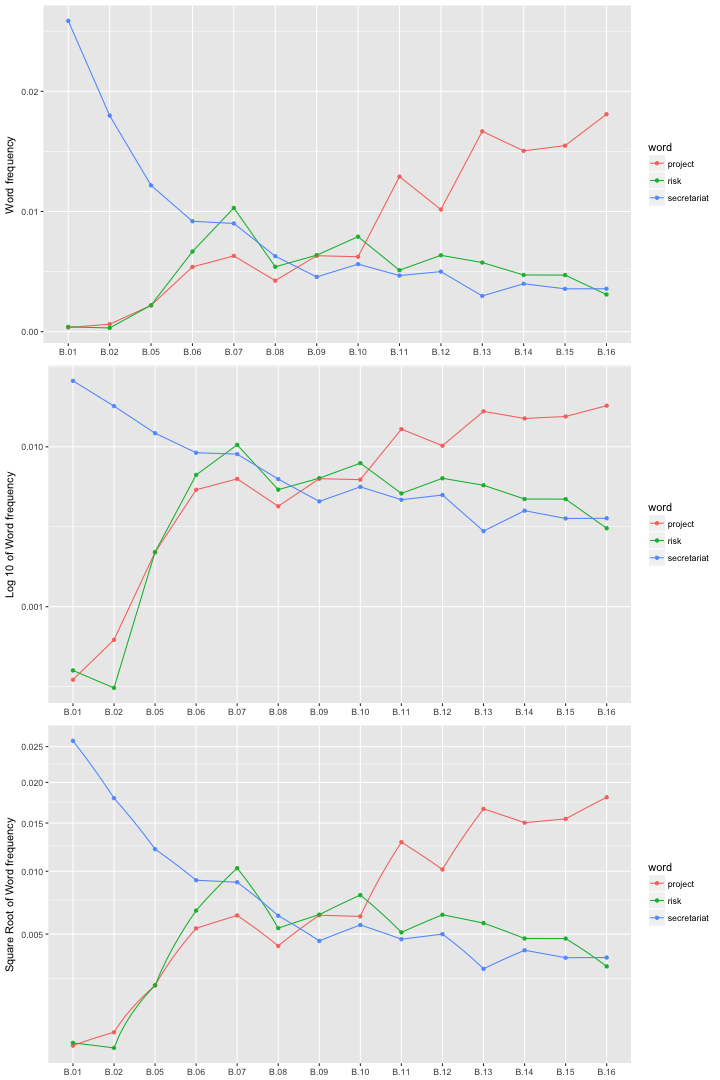
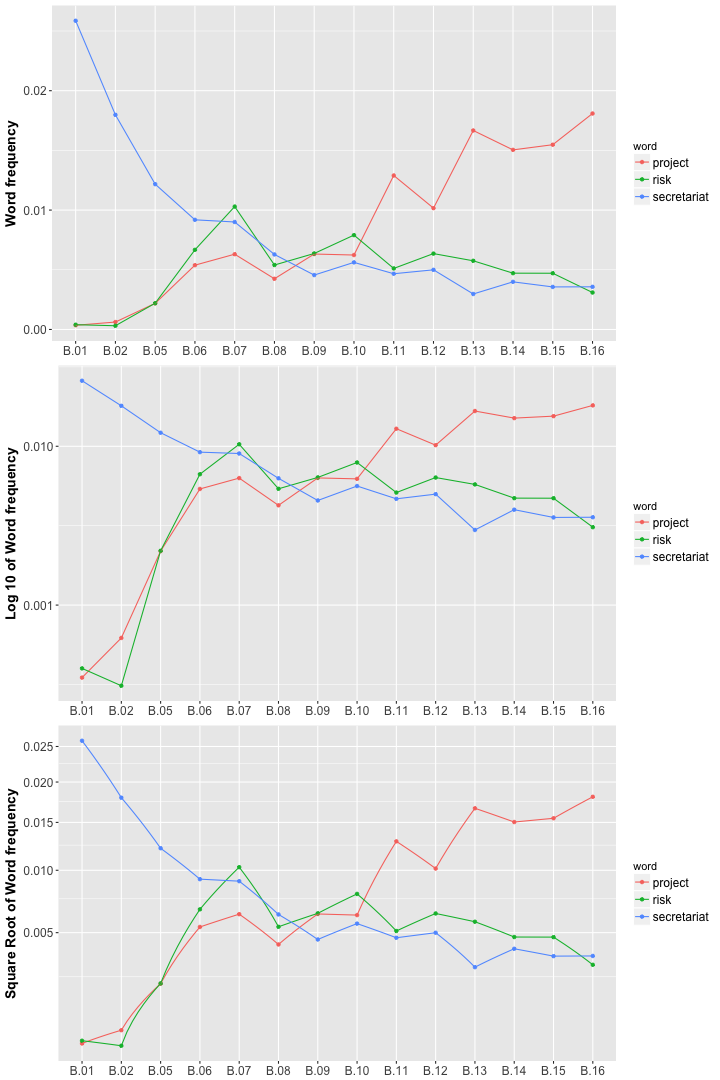
changed image text sizes and edited both posts

diff --git a/_posts/2017-4-26-exploratory_data_analysis_of_board_documents_at_the_green_climate_fund.md b/_posts/2017-4-26-exploratory_data_analysis_of_board_documents_at_the_green_climate_fund.md
@@ -1,6 +1,6 @@
 ---
 layout: post
-title:  "Exploratory Data Analysis of Board Documents at The Green Climate Fund"
+title:  "Exploratory Data Analysis: The Green Climate Fund"
 date:   2017-4-26 17:55:01 +0900
 category: r
 tags: [r]
@@ -11,15 +11,15 @@ comments: true
 
 
 
-# Introducing gcfboardr 
+Recently, I harvested over 500,000 lines of text from 500+ Green Climate Fund board documents. Because of this, I've  built a data-only R package called `gcfboardr`, so that anyone can make use of the corpus I've created without going through the harvesting process.
 
-In a previous post, I introduced `gcfboardr` a package I'd written which holds Green Climate Fund (GCF) board documents, ready for for text analysis.
+To build the data, I used documents produced for board meetings, available [here on the GCF website](http://http://www.greenclimate.fund/boardroom/board-meetings/documents). I've read some of these documents before, and it occured me that the Fund will produce more text than anyone can read in a lifetime. So I've used my natural curiosity about the Fund as a motivating project with which to practice the tidytext approach to text mining and gain deeper insight into the Fund.
 
-By looking at the most important GCF documents we might be able to get a sense of priorities at the Fund, including changes over time.
+In this post, I'm going to show what can be done with gcfboardr.
 
-I recommend using this data with the `tidytext` R package. Combining several smaller functions from `tidytext` and `dplyr` allows you to produce powerful transformations of text data. This is exactly what I'm going to do below.
+***
 
-### How to install
+### Installation
 
 To install the gcfboardr package you'll need to have the devtools package installed, and then install gcfboardr from github using the following code:
 
@@ -34,7 +34,9 @@ library(gcfboardr)
 data("gcfboard_docs")
 {% endhighlight %}
 
-## What's in the gcfboardr data set?
+***
+
+### Preview
 
 Let's load up a few libraries and take a glimpse at the data:
 
@@ -50,45 +52,32 @@ glimpse(gcfboard_docs)
 
 
 {% highlight text %}
-## Observations: 493,262
+## Observations: 490,537
 ## Variables: 3
-## $ text    <chr> "Date: 1 March 2017", "Reference: ", "Sixteenth Meeting of the Board", "4 – 6 A...
-## $ meeting <fctr> B.16, B.16, B.16, B.16, B.16, B.16, B.16, B.16, B.16, B.16, B.16, B.16, B.16, ...
 ## $ title   <fctr> Sixteenth Meeting of the Board, Sixteenth Meeting of the Board, Sixteenth Meet...
+## $ meeting <fctr> B.16, B.16, B.16, B.16, B.16, B.16, B.16, B.16, B.16, B.16, B.16, B.16, B.16, ...
+## $ text    <chr> "Date:  March ", "Reference: ", "Sixteenth Meeting of the Board", " –  April ",...
 {% endhighlight %}
 
 We have almost 500,000 observations of three variables, in which every observation is a line from an original document. How many documents are there per meeting?
 
 ![center](/figs/2017-4-26-exploratory_data_analysis_of_board_documents_at_the_green_climate_fund/docspm-1.png)
 
-We can see that B.08 and B.11 were particularly prolific, and the early meetings produced far less text than the later ones. 
-B.08 was the first board meeting of 2014, the year the Fund started operations, and it produce more than double the documents from the previous meeting! 
+We can see that B.08 and B.11 were particularly prolific, and the early meetings produced fewer docs than the later ones. B.08 was the third board meeting of 2014, the year the Fund started operations, and it produced more than double the documents from the previous meeting!
 
-### Are board meetings reasonable groupings of text suitable for analysis?
+***
 
-When we're first looking at this data set, we might want to know whether our data is normal for a large corpus, and Zipf's Law is one yardstick we might use. Zipf's Law states that given a corpus of natural language text, the frequency of any word is inversely proportional to its rank in the frequency table. This is a power law, and it implies that the most common word appears roughly twice as often in a corpus than the 2nd most common word, and three times as often as the 3rd most common word, and so on. 
+## EDA of One Variable: Single Words
 
-If this relationship holds for our data, we can proceed. If it doesn't we might have some problematic documents (this was the case for B.03, which has some badly formatted text). Let's check the data, grouping by board meeting. 
-
-
-![center](/figs/2017-4-26-exploratory_data_analysis_of_board_documents_at_the_green_climate_fund/zipf-1.png)
-
-It looks like each group of board meeting documents in our data set obeys Zipf's law! This means that, without reading any documents, groups of documents belonging to each board meeting conform to out expectations about what a corpus should look like. There are no significant distortions in the text and we can move on to more interesting analysis.
-
-
-## Single Word Analysis
-
-So far we've been looking at lines, documents and meetings, but what we'd really like to look at is the words themselves. So let's unnest the words from their lines and remove some "stop words" -- words such as "and" "the" or "a" using an `anti_join` from the dplyr package.
+So far we've been looking at lines, documents and meetings, but what we'd really like to look at is the words themselves. So let's unnest the words from their lines and remove some "stop words" -- words such as "and" "the" or "a" -- using an `anti_join` from the dplyr package.
 
 
 {% highlight r %}
 # Load a table of 1,149 common stop words
 data(stop_words)
 
-# Filter out numbers and empty lines, then unnest tokens and anti_join a table of stop words
+# Unnest word tokens and anti_join a table of stop words
 gcf_tidy <- gcfboard_docs %>%
-  mutate(text = str_replace_all(text, "[[:digit:]]", "")) %>% 
-  filter(text != "") %>% 
   unnest_tokens(word, text) %>% 
   anti_join(stop_words)
 glimpse(gcf_tidy)
@@ -99,22 +88,34 @@ glimpse(gcf_tidy)
 {% highlight text %}
 ## Observations: 2,661,944
 ## Variables: 3
-## $ meeting <fctr> B.01, B.01, B.01, B.01, B.01, B.01, B.01, B.01, B.01, B.01, B.01, B.01, B.01, ...
 ## $ title   <fctr> Roles and Responsibilities of the Board, Annotations to the Provisional Agenda...
+## $ meeting <fctr> B.01, B.01, B.01, B.01, B.01, B.01, B.01, B.01, B.01, B.01, B.01, B.01, B.01, ...
 ## $ word    <chr> "meritbased", "contd", "realestate", "worldclass", "spacious", "itower", "itowe...
 {% endhighlight %}
 
-Even after we removed a list of 1,149 common stop words, the new tidy dataframe contains over 2.6 million words! Now let's look at the counts of remaining words, sorted by the number of times they appear in the text. 
+Even after we removed every instance of common stop words, the new tidy dataframe contains over 2.6 million words! Now let's look at the counts of remaining words, sorted by the number of times they appear in the text. 
 
 ![center](/figs/2017-4-26-exploratory_data_analysis_of_board_documents_at_the_green_climate_fund/common words-1.png)
 
 It looks like some words appear very often, in particular words associated with the name of the fund, although the word "green" is relatively less used than are the words "climate" and "fund".
 
-### How many times does the phrase "Green Climate Fund" appear?
-
 We might want to disambiguate uses of the word "climate" between uses which add important context to our analysis, and uses which just repeat the name of the fund.
 
 To solve this problem, we're going to to see how many times the words "Green Climate Fund" appear in sequence:
+
+
+{% highlight r %}
+# How many times does the trigram "Green Climate Fund" appear?
+gcf_name_trigram <- gcfboard_docs %>%
+  unnest_tokens(trigram, text, token = "ngrams", n = 3) %>%
+  separate(trigram, c("word1", "word2", "word3"), sep = " ") %>%
+  filter(word1 == "green",
+         word2 == "climate",
+         word3 == "fund") %>%
+  count(word1, word2, word3, sort = TRUE)
+gcf_name_trigram
+{% endhighlight %}
+
 
 
 {% highlight text %}
@@ -127,6 +128,19 @@ To solve this problem, we're going to to see how many times the words "Green Cli
 {% endhighlight %}
 
 Now we can see that 6,310 uses of each word "green", "climate" and "fund" are repetitions of the fund name. So how many uses are there in other contexts?
+
+
+{% highlight r %}
+gcf_name_disambiguation <- gcf_tidy %>%
+  count(word, sort = TRUE) %>%
+  filter(word == "green" | word == "climate" | word == "fund") %>%
+  transmute(word,
+         `basic count` = n,
+         `name context` = 6310,
+         `other contexts` = `basic count` - `name context`)
+gcf_name_disambiguation
+{% endhighlight %}
+
 
 
 {% highlight text %}
@@ -142,19 +156,20 @@ We can see that "green" occurs rarely in contexts other than the name context. T
 
 Now we can find out the relative importance of the word "climate", disambiguated from usage which is just a repetition of the fund's name. 
 
-
 ![center](/figs/2017-4-26-exploratory_data_analysis_of_board_documents_at_the_green_climate_fund/tidycount2-1.png)
 
-Wow! It turns out that the word "climate", independent of usage as part of the name of the Fund, is the third most common word. It's a good job we didn't remove it out of hand. 
+Wow! It turns out that the word "climate", independent of usage as part of the name of the Fund, is the third most common word. 
 
 You might wonder why we didn't remove the word "project" since it is so common. This is because frequency of usage has changed a lot over time, unlike the other words we removed.
+
+***
 
 ### How has word usage changed over time?
 
 
 
 
-Let's look at changes in usage for a few words which might be interesting to us: "secretariat", "project" and "risk".   
+Let's look at changes in usage for a few words which might be interesting to us: "secretariat", "project" and "risk".
 
 Plotting statistical transformations of word frequency can help us see these changes over time. Below you can see the bare frequenciess on top, followed by a log10 scale in the middle, and finally a squre root coordinate transform beneath.
 
@@ -163,15 +178,17 @@ Plotting statistical transformations of word frequency can help us see these cha
 
 All plots show that since the Fund became operational in 2014, use of the word "project" has surged. 
 
-At earlier meetings, establishing a secretariat was priority number one, and we can see usage declining over time. "Risk" begins to become much more important at B.07, which is when the Fund adopted a risk management framework.    
+At earlier meetings, establishing a secretariat was priority number one, and we can see usage declining over time. "Risk" begins to become much more important at B.07, which is when the Fund adopted an investment framework, a financial risk management framework, and a results management framework.
 
 You'll notice that the bare frequency plot emphasises the high-frequency changes to the words "secretariat" and "project", whereas the log10 plot of word frequency really helps us see what's happening at the low-end of the frequency range. The square-root coordinate transform preserves some of the perspective of both the other plots, and might be the most useful plot of the three.
 
-### What does single word analysis say about different board meetings?
+***
+
+### Word Frequency
 
 We might want to look at board meetings as a facet of our single word analysis. Which words are particularly associated with specific meeetings? To find this out we can use common rules-of-thumb: term frequency and it's cousin, inverse-document frequency.
 
-Computing this with the `bind_tf_idf` function from the tidytext package, we get a data table which shows the words which are associatd in particular with one meeting. 
+Computing these with the `bind_tf_idf` function from the tidytext package, we get a data table which shows the words which are associatd in particular with one meeting. 
 
 
 {% highlight text %}
@@ -197,25 +214,27 @@ We can then plot this data, faceting by meeting and picking the top 5 terms asso
 
 That's a lot of acronyms! If we look into the board documents themselves, we can see that these acronyms tend to denote real organizations or operational units at the fund. For example:
 
-* at B.16, the top term is "geeref", which stands for "Global Energy Efficiency and Renewable Energy Fund"
-* and at B.06, where the top term is "iiu", this refers to the "Independent Integrity Unit" (IIU), which is one of three accountability units at the fund. 
+* At B.16, the top term is "geeref", which is the ["Global Energy Efficiency and Renewable Energy Fund"](http://geeref.com/), a Public-Private Partnership which makes equity investments in clean energy in developing countries.
+* At B.06, where the top term is "iiu", this refers to the ["Independent Integrity Unit" (IIU)](http://www.greenclimate.fund/independent-integrity-unit), which is one of three accountability units at the fund. 
 
 This means that relative to other board meetings, the IIU and GEEREF were a particularly important topics at the sixth and sixteenth meetings of the board respectively.
 
-### How similar are individual board meetings?
+***
 
-We can also look at frequencies of words between meeting pairs. Words that are common to one meeting are common to another, and cancel each other out, leaving interesting words at the margins.
+### Word Correlation
+
+We can also look at correlation in word frequency between pairs of meetings. Words that are common to one meeting are common to another, and cancel each other out, leaving interesting words at the margins.
 
 Let's use a 45 degree dashed line to denote equal frequency in word usage. This means that:
 
 * words above the line appear more commonly in B.16 board documents than in the comparison group, while 
 * words below the line appear more frequently in the comparison group than at B.16 (check the label above the plot to find which board meeting is used as the comparison). 
 
-For example, in the first plot below we see that "co-chairs" was a big issue at B.01 (below the line), while it wasn't at B.16. In contrast, B.16 (above the line) had a greater focus on "women", "water" and "projects" than did B.01.
+For example, in the first plot below we see (below the line) that "co-chairs" was a big issue at B.01, while it wasn't at B.16. In contrast, B.16 (above the line) had a greater focus on "women", "water" and "projects" than did B.01.
 
 ![center](/figs/2017-4-26-exploratory_data_analysis_of_board_documents_at_the_green_climate_fund/frequencies-1.png)
 
-We can see that:
+We can also see that:
 
 * B.01 was focused on finding a "host" country and establishing a "secretariat",
 * B.10 was relatively more concerned with "accountability" and "accreditation" than was B.16,
@@ -225,7 +244,7 @@ By looking at the spread of the data, we can also see that correlation between w
 
 We can confirm this intuition by looking at Pearson's product-moment correlations between B.16 and previous meetings:
 
-* First between **B.01 and B.16**: correlation is about 32%
+* between **B.01 and B.16**: correlation is about 32%
 
 {% highlight text %}
 ## 
@@ -241,7 +260,7 @@ We can confirm this intuition by looking at Pearson's product-moment correlation
 ## 0.3162027
 {% endhighlight %}
 
-* Next between **B.10 and B.16**: correlation is about 62%
+* between **B.10 and B.16**: correlation is about 62%
 
 {% highlight text %}
 ## 
@@ -257,7 +276,7 @@ We can confirm this intuition by looking at Pearson's product-moment correlation
 ## 0.6218376
 {% endhighlight %}
 
-* Last, between **B.15 and B.16**: correlation is about 92%
+* between **B.15 and B.16**: correlation is about 92%
 
 {% highlight text %}
 ## 
@@ -283,11 +302,7 @@ That's enough for one post! For more ideas about how to analyze this data set be
 
 ### Notes
 
-* Zipf's Law is a simple power law:
-
-$$f(k;s,N)=\frac{1/k^s}{\sum_{n=1}^N (1/n^s)}$$
-
-* **Term frequency (tf)**, measures how frequently a word occurs in a document. However, even after we remove words such as “and”, “the”, "a”, et cetera, there are some words which will occur much more often than others, so it's not much use on its own.
+* **Term frequency (tf)**, measures how frequently a word occurs in a document. However, even after we remove stop words, there are always some words which will occur far more often than others, so it's not much use on its own.
 
 $$tf(\text{word}) = (\frac{n_{\text{word}}}{n_{\text{total words in document}}})$$  
 

diff --git a/_posts/2017-4-25-GCF_board_documents_to_tidy_data.md b/_posts/2017-4-25-GCF_board_documents_to_tidy_data.md
@@ -175,14 +175,38 @@ Let's verify that our data set is now tidy, by pulling out some rows at random.
 {% endhighlight %}
 
 
-Every observation is a now a single token, which is what we wanted. Great! We're done here and can move on to more interesting analysis of the data.
+Every observation is a now a single token, which is what we wanted. Great! 
 
-For ideas on how to use the data set for analysis, see my post on [exploratory data analysis of the gcfboardr dataset](http://state.gy/r/exploratory_data_analysis_of_board_documents_at_the_green_climate_fund/).  
-  
+***
+
+### Is our data reasonable?
+
+When we're first looking at this data set, we might want to know whether our data is normal for a large corpus, and Zipf's Law is one yardstick we might use. Zipf's Law states that given a corpus of natural language text, the frequency of any word is inversely proportional to its rank in the frequency table. This is a power law, and it implies that the most common word appears roughly twice as often in a corpus than the 2nd most common word, and three times as often as the 3rd most common word, and so on. 
+
+If this relationship holds for our data, we can proceed. If it doesn't we might have some problematic documents (this was the case for B.03, which has some badly formatted text). Let's check the data, grouping by board meeting. 
+
+
+
+{% highlight text %}
+## Joining, by = "meeting"
+{% endhighlight %}
+
+![center](/figs/2017-4-25-GCF_board_documents_to_tidy_data/zipf-1.png)
+
+It looks like each group of board meeting documents in our data set obeys Zipf's law! This means that, without reading any documents, groups of documents belonging to each board meeting conform to out expectations about what a corpus should look like. There are no significant distortions in the text.
+
+We're done here and can move on to more interesting analysis of the data.
+
+For ideas on how to use the data set for analysis, see my post on [exploratory data analysis of the gcfboardr dataset](http://state.gy).  
 
 ***
 ##### Notes
 
-1. Users should be aware that there are some issues with the data from B.03, a board meeting which was documented using an unknown process for creating Pdf documents. This set of Pdf documents caused some parsing problems for the `pdftools` package, resulting in garbled word tokens. As such, gcfboardr does not contain any documents from the B.03 board meeting.  
+1. Users should be aware that there are some issues with the data from B.03, a board meeting which was documented using an unknown process for creating Pdf documents. This set of Pdf documents caused some parsing problems for the `pdftools` package, resulting in garbled word tokens. As such, gcfboardr does not contain any documents from the B.03 board meeting.
 
-2. On github, I've also included the R script documenting how I harvested all the files from the GCF website and pulled the text out of them. The script includes a few functions I wrote, such as the pdf_date function, which makes it easier to pull "creation date" metadata out of pdfs, using a method which works well with the map family of functions from purrr. This means that unlike the pdf_info function in the pdftools package, it can be used when building a data frame using dplyr. You can find that script [here](https://github.com/ljodea/gcfboardr/blob/master/data-raw/prep_data.R).
+2. Zipf's Law is a simple power law:
+
+$$f(k;s,N)=\frac{1/k^s}{\sum_{n=1}^N (1/n^s)}$$
+
+
+3. On github, I've also included the R script documenting how I harvested all the files from the GCF website and pulled the text out of them. The script includes a few functions I wrote, such as the pdf_date function, which makes it easier to pull "creation date" metadata out of pdfs, using a method which works well with the map family of functions from purrr. This means that unlike the pdf_info function in the pdftools package, it can be used when building a data frame using dplyr. You can find that script [here](https://github.com/ljodea/gcfboardr/blob/master/data-raw/prep_data.R).
